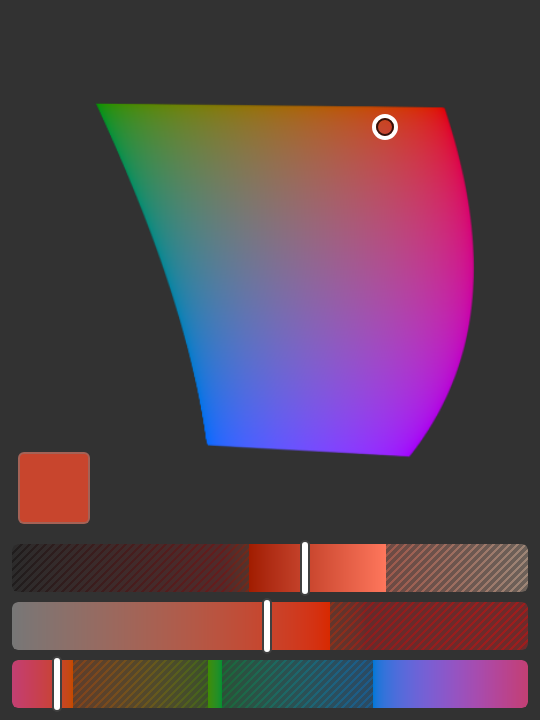
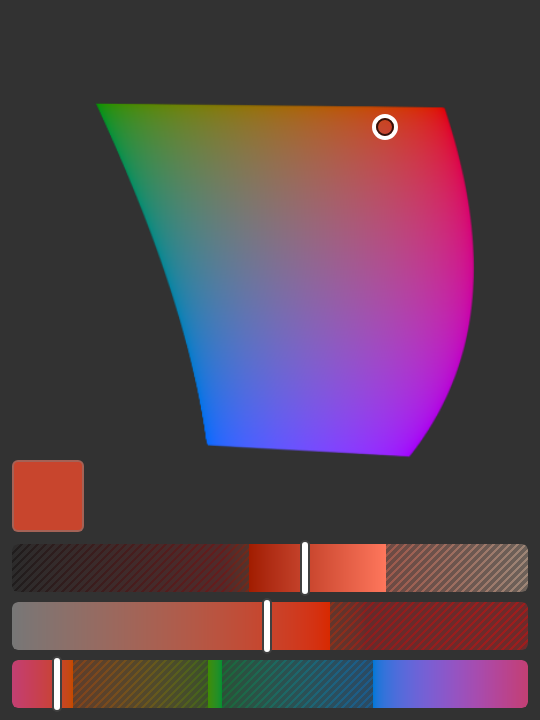
Anchor the swatch to the tracks, not to the diagram
Positioning the swatch inside the diagram made sense while the diagram
filled its row.  Now that the diagram floats and centres itself, the
swatch floated with it and drifted away from the controls it belongs to.
Pin it to the bottom left of the area above the tracks instead: left edge
flush with the tracks, sitting just above the lightness ramp, wherever the
diagram happens to be.

Where the two still meet - a panel short enough that the diagram reaches
all the way down - the swatch lands in the diagram's bottom-left corner,
so it is still sized to stay inside the region the hull never reaches.
That makes the corner *choice* redundant, so freeCorner collapses to
freeBottomLeft: one corner, one number, no search over four.  In practice
the cap only bites below about 140px of diagram width; above that the
swatch is a constant 36px.

Making the swatch a sibling of the diagram rather than a child also means
a press on it no longer reaches the diagram's handler through the DOM, so
the explicit stopPropagation is gone.  A drag begun on the diagram still
tracks across it.

Claude-Session: https://claude.ai/code/session_01RCCs7LZisFv81s1Z1NryuC

Changed region(s): [[0.0, 0.6111, 0.1778, 0.7639]]

diff --git a/src/color.js b/src/color.js
@@ -434,34 +434,31 @@
   }
 
   /**
-   * The biggest square in a corner of the plot window that the gamut never
-   * reaches, at any lightness — somewhere to park a badge without covering the
-   * picture.  Returns the corner and the square's side as a fraction of the
-   * window's width; because the window's aspect matches the gamut's, a square
-   * in chroma units is a square in pixels too.
+   * The biggest square in the bottom-left corner of the plot window that the
+   * gamut never reaches, at any lightness — how large a badge can sit there
+   * without covering the picture.  Returned as a fraction of the window's
+   * width; because the window's aspect matches the gamut's, a square in chroma
+   * units is a square in pixels too.
    *
-   * Which corner wins depends on the space: most RGB spaces lean away from the
-   * blue-green quadrant and leave the bottom left free, but ProPhoto's
-   * imaginary primaries fill that and vacate the top left instead.
+   * Most RGB spaces lean away from the blue-green quadrant and leave a quarter
+   * of the width free (sRGB: 30%). ProPhoto is the exception — its imaginary
+   * primaries reach into that corner, so it gets a small badge.
    */
-  function freeCorner(space) {
-    if (space._freeCorner) return space._freeCorner;
+  function freeBottomLeft(space) {
+    if (space._freeBottomLeft !== undefined) return space._freeBottomLeft;
     var box = spaceBounds(space);
     var proj = spaceExtent(space).projection;
     var width = box.aMax - box.aMin;
-    var height = box.bMax - box.bMin;
     // The projection is sampled every 2 degrees at 14 bisection steps, so treat
     // the hull as a little bigger than measured rather than risk an overlap.
     var safety = 1.05;
     var GRID = 12;
 
-    function clear(side, right, top) {
-      var a0 = right ? box.aMax - side : box.aMin;
-      var b0 = top ? box.bMax - side : box.bMin;
+    function clear(side) {
       for (var i = 0; i <= GRID; i++) {
-        var a = a0 + side * (i / GRID);
+        var a = box.aMin + side * (i / GRID);
         for (var j = 0; j <= GRID; j++) {
-          var b = b0 + side * (j / GRID);
+          var b = box.bMin + side * (j / GRID);
           var h = Math.atan2(b, a) / DEG;
           if (h < 0) h += 360;
           if (Math.sqrt(a * a + b * b) <= envelopeAt(proj, h) * safety) return false;
@@ -470,25 +467,20 @@
       return true;
     }
 
-    var best = { x: 'left', y: 'bottom', size: 0 };
-    [['left', 'bottom'], ['right', 'bottom'], ['left', 'top'], ['right', 'top']].forEach(function (c) {
-      var right = c[0] === 'right', top = c[1] === 'top';
-      // A smaller corner square is contained in a bigger one, so "is it clear"
-      // is monotone and bisection finds the largest that is.
-      var lo = 0, hi = Math.min(width, height);
-      if (!clear(hi, right, top)) {
-        for (var k = 0; k < 22; k++) {
-          var mid = (lo + hi) * 0.5;
-          if (clear(mid, right, top)) lo = mid; else hi = mid;
-        }
-      } else {
-        lo = hi;
+    // A smaller corner square is contained in a bigger one, so "is it clear" is
+    // monotone and bisection finds the largest that is.
+    var lo = 0, hi = Math.min(width, box.bMax - box.bMin);
+    if (clear(hi)) {
+      lo = hi;
+    } else {
+      for (var k = 0; k < 22; k++) {
+        var mid = (lo + hi) * 0.5;
+        if (clear(mid)) lo = mid; else hi = mid;
       }
-      if (lo > best.size) best = { x: c[0], y: c[1], size: lo };
-    });
+    }
 
-    space._freeCorner = { x: best.x, y: best.y, size: best.size / width };
-    return space._freeCorner;
+    space._freeBottomLeft = lo / width;
+    return space._freeBottomLeft;
   }
 
   function envelopeAt(env, hDeg) {
@@ -705,7 +697,7 @@
     spaceExtent: spaceExtent,
     spaceMaxChroma: spaceMaxChroma,
     spaceBounds: spaceBounds,
-    freeCorner: freeCorner,
+    freeBottomLeft: freeBottomLeft,
     chromaEnvelope: chromaEnvelope,
     envelopeAt: envelopeAt,
 

diff --git a/src/ui.js b/src/ui.js
@@ -408,7 +408,6 @@
   // chrome steps down through progressively tighter metrics.
 
   var BODY_PAD = 6;       // must match the body's padding in styles.css
-  var SWATCH_INSET = 3;   // gap between the swatch and the diagram's corner
   var SWATCH_MAX = 36;    // the swatch is a preview, not a feature
   var TRACK_MAX = 32;     // tallest the axis ramps are allowed to grow
 
@@ -482,15 +481,13 @@
     els.plot.style.width = plotW + 'px';
     els.plot.style.height = plotH + 'px';
 
-    // Park the colour in the corner of the diagram the gamut never reaches.
-    var corner = OKColor.freeCorner(activeSpace());
-    var swatch = Math.round(clamp(corner.size * plotW - 2 * SWATCH_INSET, 10, SWATCH_MAX));
+    // The swatch is pinned to the bottom left of the area above the tracks by
+    // CSS; all that is left is to keep it inside the corner of the diagram the
+    // gamut cannot reach, for the panel sizes where the two meet.
+    var swatch = Math.round(
+      clamp(OKColor.freeBottomLeft(activeSpace()) * plotW, 10, SWATCH_MAX));
     els.swatch.style.width = swatch + 'px';
     els.swatch.style.height = swatch + 'px';
-    els.swatch.style.left =
-      (corner.x === 'left' ? SWATCH_INSET : plotW - swatch - SWATCH_INSET) + 'px';
-    els.swatch.style.top =
-      (corner.y === 'top' ? SWATCH_INSET : plotH - swatch - SWATCH_INSET) + 'px';
 
     els.sliders.style.marginTop = d.rowGap + 'px';
 
@@ -512,14 +509,6 @@
       var v = OKRender.fractionToCh(f.x, f.y, plotBounds());
       setColor({ C: v.C, H: v.H });
     }, pushForeground);
-
-    // The swatch sits inside the diagram, so a press on it would otherwise
-    // bubble to the diagram and be read as a pick.  It is a readout: pressing
-    // it does nothing.  A drag that started on the diagram still tracks across
-    // it, because that listens on the document once it is under way.
-    els.swatch.addEventListener('mousedown', function (e) {
-      if (e.stopPropagation) e.stopPropagation();
-    });
 
     bindDrag(els.lTrack, function (f) {
       setColor({ L: clamp01(f.x) });

diff --git a/test/render.test.js b/test/render.test.js
@@ -217,29 +217,33 @@ test('marker geometry round-trips through an off-centre window', () => {
   assert.ok(grey.y < 0.45, 'neutral sits above the middle, got ' + grey.y);
 });
 
-test('the free corner is never painted, in any space at any lightness', () => {
+test('the bottom-left corner is never painted, in any space at any lightness', () => {
   C.spaceList.forEach((sp) => {
     const bounds = C.spaceBounds(sp);
-    const corner = C.freeCorner(sp);
+    const free = C.freeBottomLeft(sp);
     const w = 80;
     const h = Math.max(8, Math.round(w * (bounds.bMax - bounds.bMin) / (bounds.aMax - bounds.aMin)));
-    const side = Math.floor(corner.size * w);
-
-    assert.ok(corner.size >= 0.18,
-      sp.id + ' should leave somewhere to put the swatch, got ' +
-      (corner.size * 100).toFixed(1) + '%');
+    const side = Math.floor(free * w);
 
     for (let li = 1; li < 20; li++) {
       const L = li / 20;
       const img = R.chPlot({ space: sp, L, bounds, width: w, height: h });
       for (let dy = 0; dy < side; dy++) {
         for (let dx = 0; dx < side; dx++) {
-          const x = corner.x === 'left' ? dx : w - 1 - dx;
-          const y = corner.y === 'top' ? dy : h - 1 - dy;
-          assert.strictEqual(img.data[(y * w + x) * 4 + 3], 0,
-            sp.id + ': ' + corner.y + '-' + corner.x + ' corner painted at L=' + L);
+          assert.strictEqual(img.data[((h - 1 - dy) * w + dx) * 4 + 3], 0,
+            sp.id + ': bottom-left corner painted at L=' + L);
         }
       }
     }
+  });
+});
+
+test('the bottom-left corner is big enough for the swatch', () => {
+  C.spaceList.forEach((sp) => {
+    // ProPhoto's imaginary primaries reach into that corner, so it is the one
+    // space that gets a small badge.  Everything else has room to spare.
+    const floor = sp.id === 'prophoto' ? 0.05 : 0.20;
+    assert.ok(C.freeBottomLeft(sp) >= floor,
+      sp.id + ' bottom-left is only ' + (C.freeBottomLeft(sp) * 100).toFixed(1) + '%');
   });
 });

diff --git a/src/styles.css b/src/styles.css
@@ -45,6 +45,7 @@ body {
    so a dock taller than the picture centres the picture instead of pooling the
    slack underneath everything. */
 .plotrow {
+  position: relative;
   flex: 1 1 auto;
   display: flex;
   flex-direction: row;
@@ -96,17 +97,17 @@ body {
   border-radius: 5px;
 }
 
-/* The current colour lives in whichever corner of the diagram the gamut never
-   reaches, so it costs no space of its own.  ui.js picks the corner and the
-   size.  It swallows clicks rather than letting them through to the diagram:
-   it is a readout, and picking a colour by clicking the thing that reports the
-   colour reads as a bug.  The cursor says as much. */
+/* The current colour sits at the left, directly above the lightness track, and
+   stays there however the diagram is placed above it.  When the diagram does
+   come down to meet it, it lands in the bottom-left corner of the gamut, which
+   is a region the hull never reaches — ui.js sizes it to stay inside that.
+   It is a readout, so it takes no clicks; the cursor says as much. */
 .swatch {
   position: absolute;
   left: 0;
-  top: 0;
-  width: 32px;
-  height: 32px;
+  bottom: 0;
+  width: 36px;
+  height: 36px;
   border: 1px solid rgba(127, 127, 127, 0.5);
   border-radius: 3px;
   background-color: #000000;

diff --git a/index.html b/index.html
@@ -11,9 +11,12 @@
     <div id="plotrow" class="plotrow">
       <div id="plot" class="plot">
         <div id="plotSurface" class="surface"></div>
-        <div id="swatch" class="swatch"></div>
         <div id="plotMarker" class="marker"><i></i></div>
       </div>
+      <!-- A sibling of the diagram, not a child: it belongs to the controls and
+           stays put when the diagram floats.  Being a sibling is also what stops
+           a press on it reaching the diagram's handler. -->
+      <div id="swatch" class="swatch"></div>
     </div>
 
     <div id="sliders" class="sliders">

diff --git a/README.md b/README.md
@@ -84,7 +84,7 @@ with [UPIA](https://developer.adobe.com/photoshop/uxp/2022/guides/distribution/)
 | Top track | Lightness. The diagram is redrawn for the new slice. |
 | Middle track | Chroma, up to the largest the space can hold anywhere. |
 | Bottom track | Hue, right round the circle. |
-| Swatch | The colour you are on, which is also Photoshop's foreground colour. It sits inside the diagram, in a corner the gamut cannot reach. Pressing it does nothing — it reports the colour, it does not set one — though a drag begun on the diagram keeps tracking across it. |
+| Swatch | The colour you are on, which is also Photoshop's foreground colour. It sits at the left, just above the lightness track. Pressing it does nothing — it reports the colour, it does not set one — though a drag begun on the diagram keeps tracking across it. |
 
 Both the diagram and the tracks write straight through to the foreground
 swatch, live, while you drag.
@@ -120,13 +120,18 @@ height is above the shape — because the window has to stay put while the slice
 grows and shrinks. That is the price of a stable scale.
 
 The corners are a different matter: a rounded hull in a rectangle leaves them
-empty for good, so the swatch goes in one of them and costs no layout space at
-all. Which one is not a constant. The panel projects the whole gamut onto the
-a/b plane — the largest chroma each hue reaches at *any* lightness — and finds
-the biggest corner square that projection misses. Most RGB spaces lean away
-from blue-green and free up the bottom left (sRGB: 30% of the diagram's width),
-but ProPhoto's imaginary primaries fill that corner and vacate the top left
-instead, so the swatch moves there when the document does.
+empty for good, which is what lets the swatch overlap the diagram and cost no
+layout space at all. The swatch is pinned to the controls — bottom left, just
+above the lightness track — so it holds still while the diagram floats above
+it, and on a short panel the two meet in the diagram's bottom-left corner.
+
+To be sure that corner really is free, the panel projects the whole gamut onto
+the a/b plane — the largest chroma each hue reaches at *any* lightness — and
+bisects for the biggest bottom-left square that projection misses. Most RGB
+spaces lean away from blue-green and leave a quarter of the width clear
+(sRGB: 30%), which is more than the swatch needs at any usable panel size.
+ProPhoto is the exception: its imaginary primaries reach into that corner, so
+it gets a smaller badge.
 
 ### Things worth knowing
 
